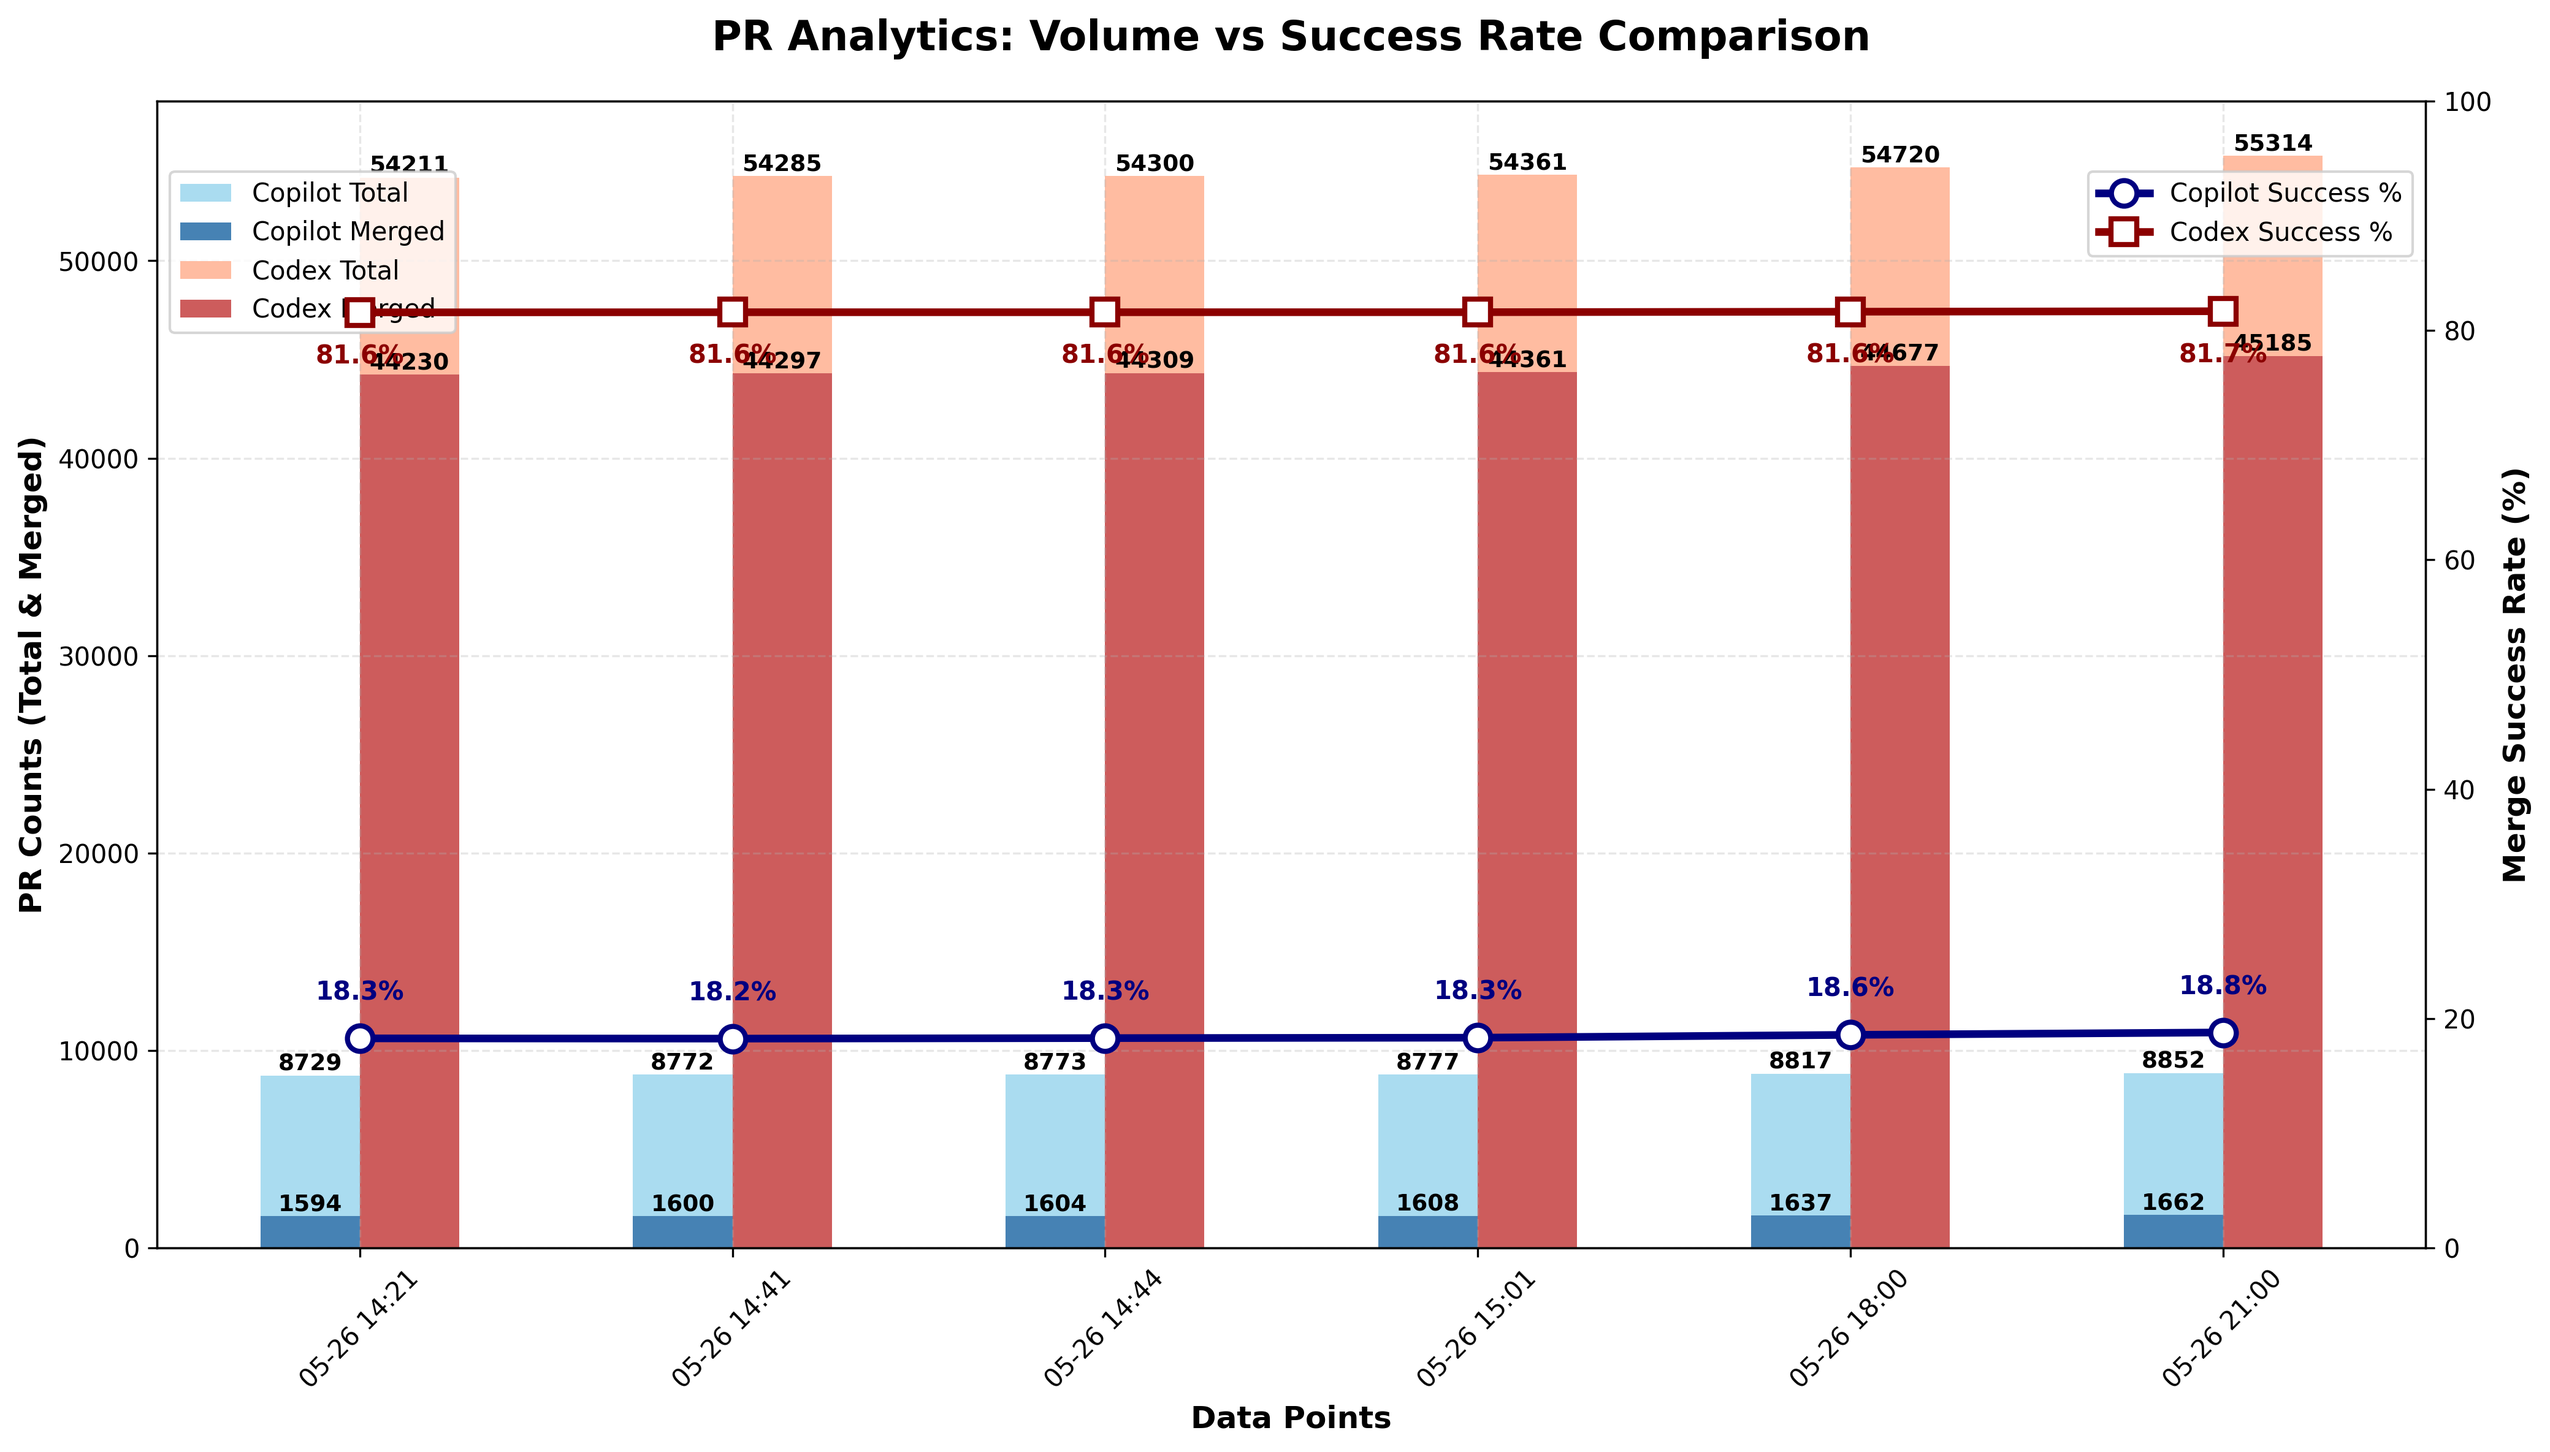
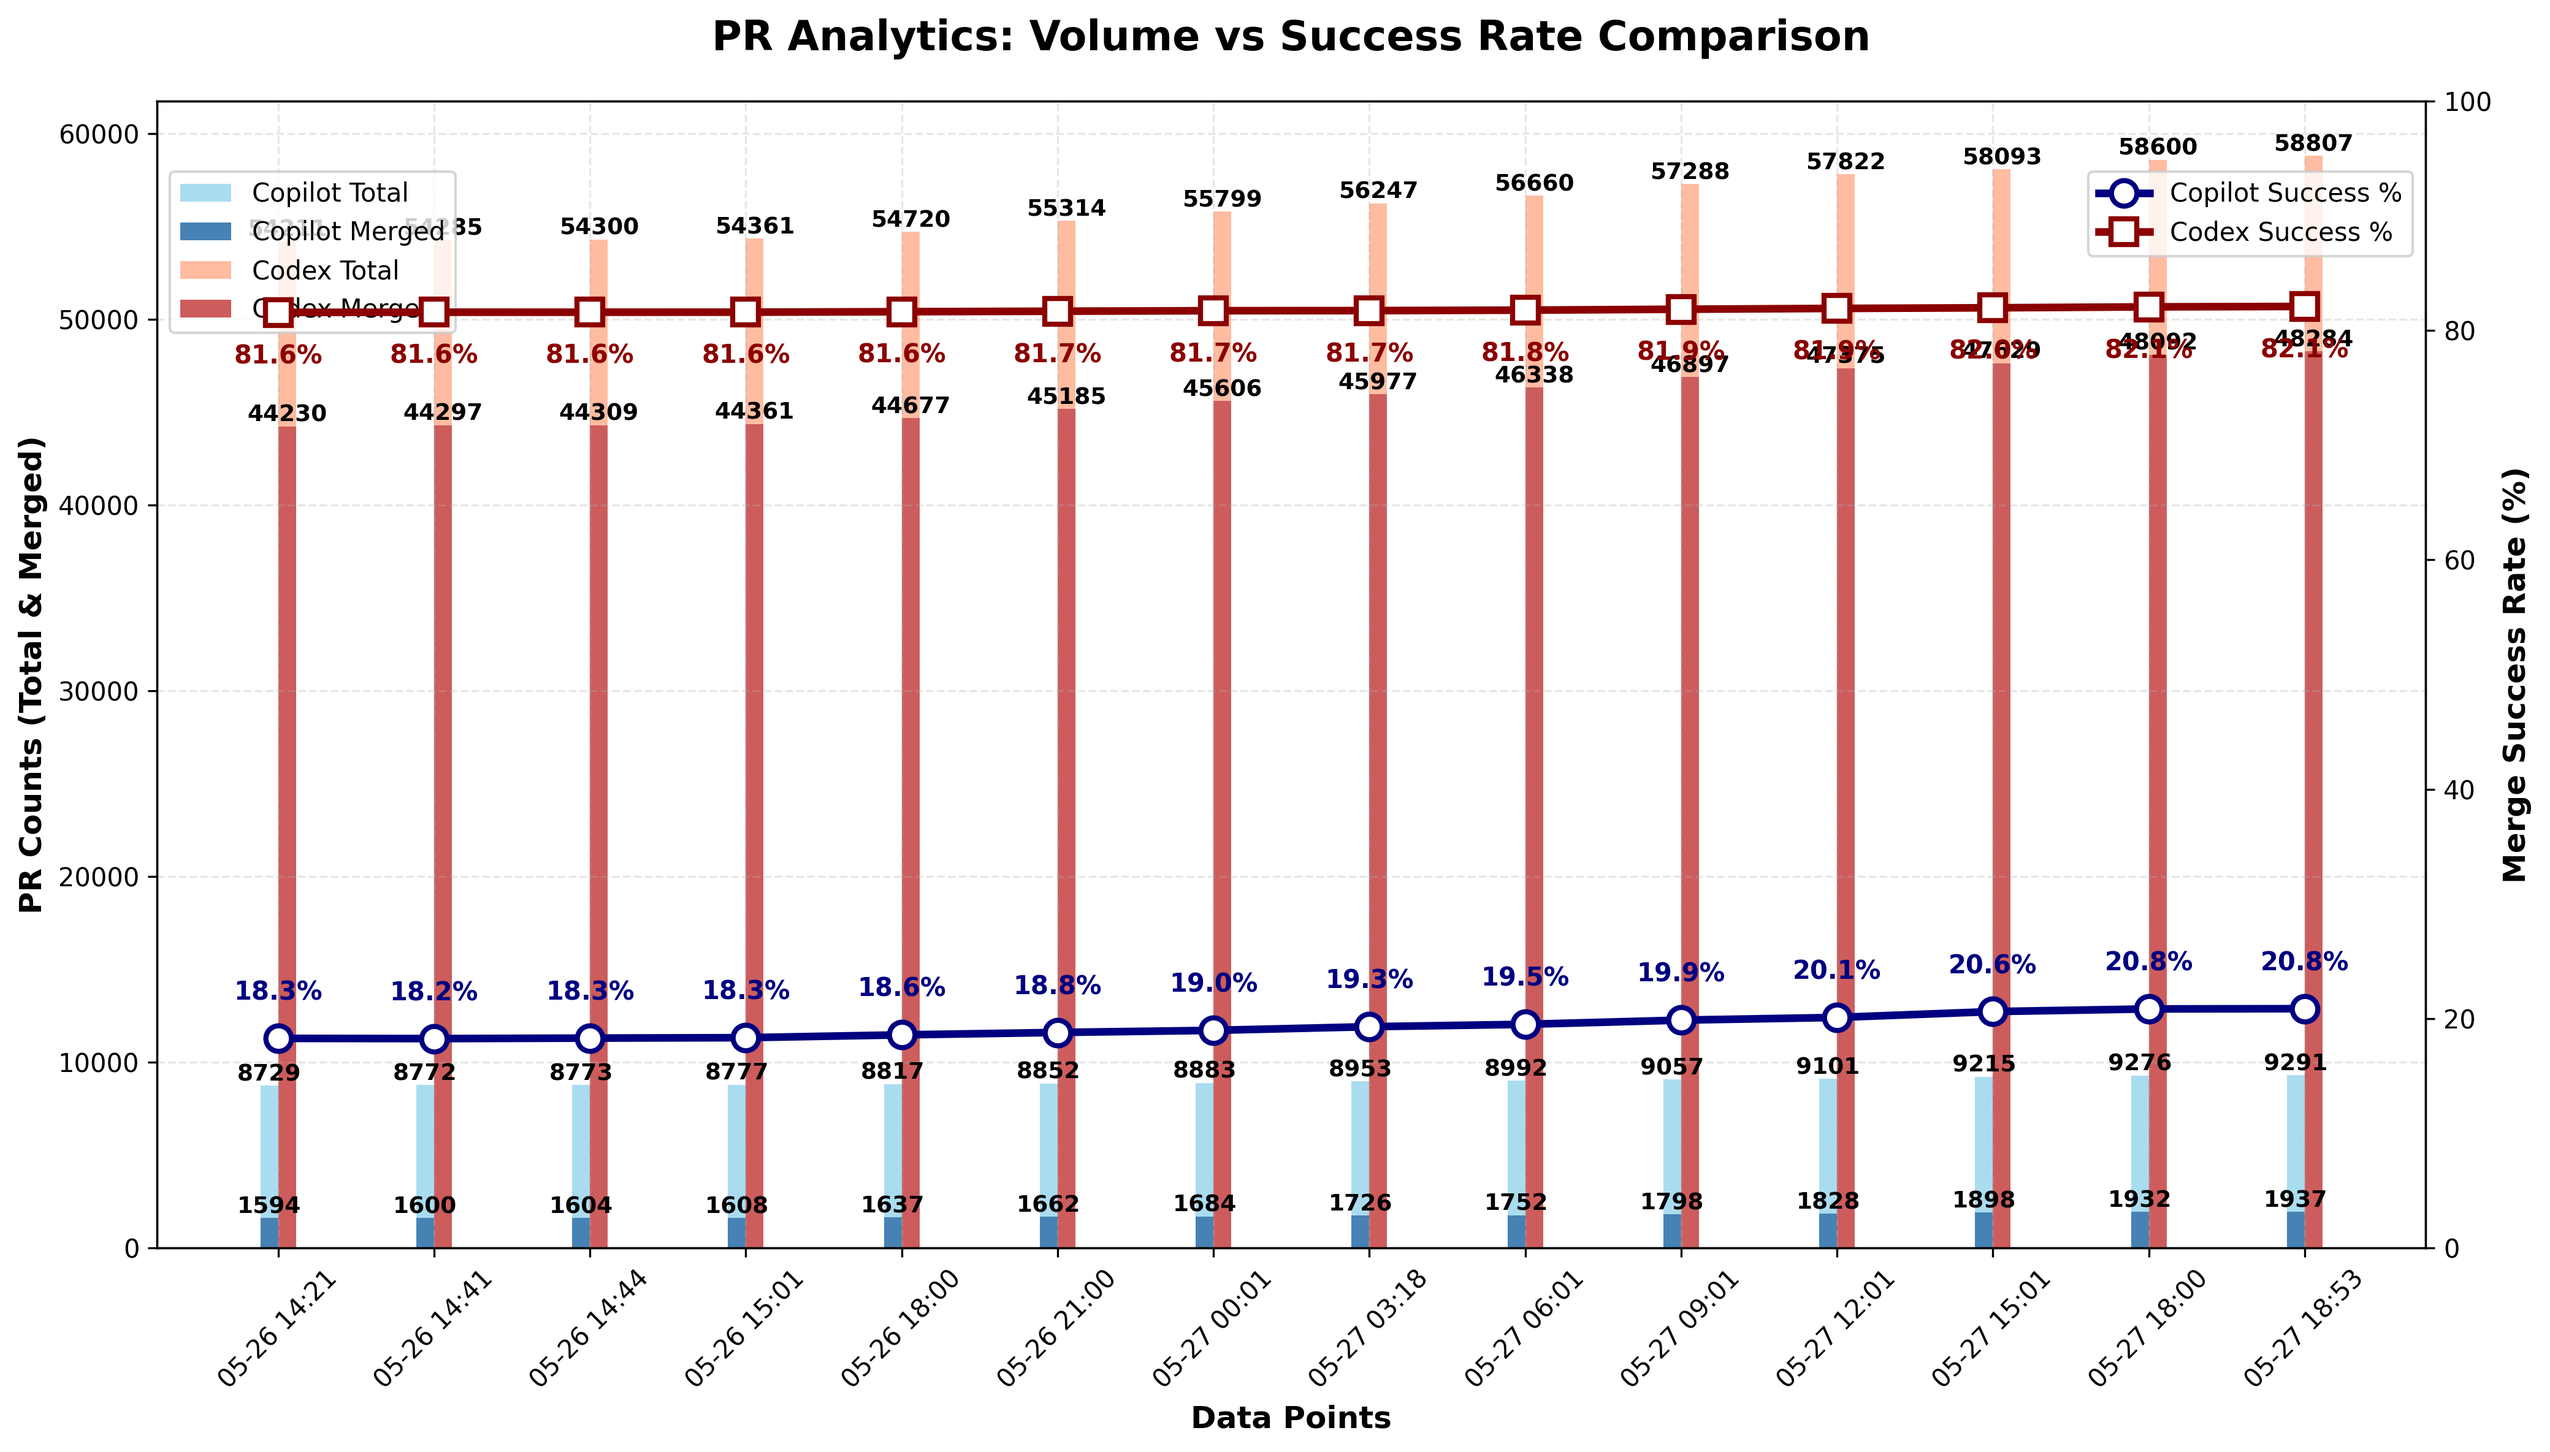
chore: update PR‑approval chart

diff --git a/docs/index.html b/docs/index.html
@@ -44,22 +44,22 @@
                 <tbody>
                     <tr>
                         <td>Copilot</td>
-                        <td>8,852</td>
-                        <td>1,662</td>
-                        <td>18.78%</td>
+                        <td>9,291</td>
+                        <td>1,937</td>
+                        <td>20.85%</td>
                     </tr>
                     <tr>
                         <td>Codex</td>
-                        <td>55,314</td>
-                        <td>45,185</td>
-                        <td>81.69%</td>
+                        <td>58,807</td>
+                        <td>48,284</td>
+                        <td>82.11%</td>
                     </tr>
                 </tbody>
             </table>
         </section>
 
         <footer>
-            <p>Last updated: <span id="last-updated">May 26, 2025 22:24 UTC</span></p>
+            <p>Last updated: <span id="last-updated">May 27, 2025 18:54 UTC</span></p>
             <p><a href="https://github.com/aavetis/ai-pr-watcher">View on GitHub</a></p>
         </footer>
     </div>

diff --git a/README.md b/README.md
@@ -19,5 +19,5 @@ Explore the GitHub search queries used:
 
 | Project | Total PRs | Merged PRs | Merge Rate |
 | ------- | --------- | ---------- | ---------- |
-| Copilot | 9,276 | 1,932 | 20.83% |
-| Codex   | 58,600 | 48,092 | 82.07% |
+| Copilot | 9,291 | 1,937 | 20.85% |
+| Codex   | 58,807 | 48,284 | 82.11% |
